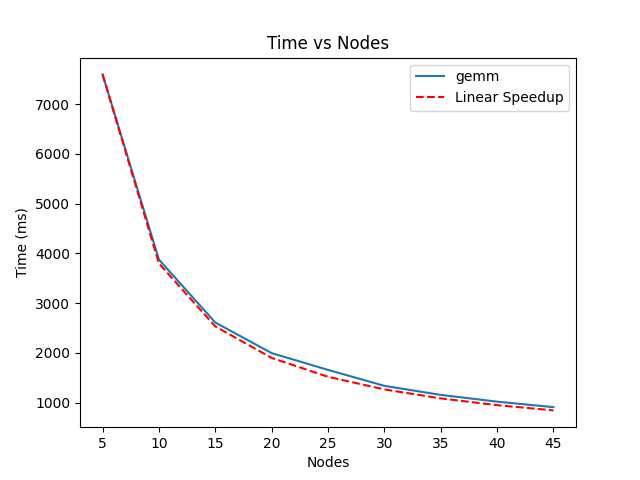
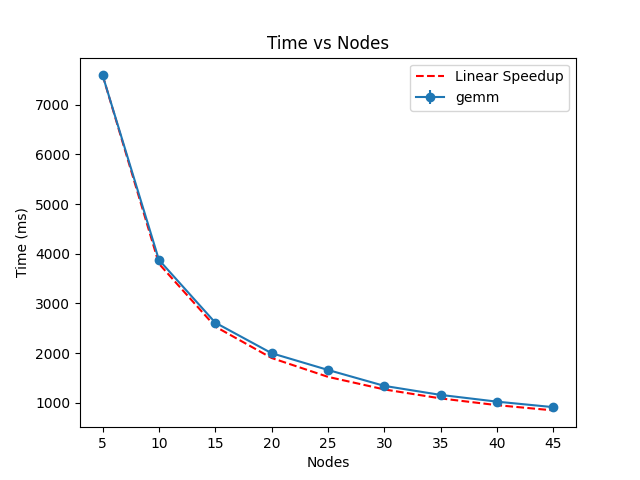
added errorbars to timing plot

diff --git a/scripts/sweep_benchmark.py b/scripts/sweep_benchmark.py
@@ -9,7 +9,7 @@ import os
 import matplotlib.pyplot as plt
 
 CMD       = "./dphpc"
-RUNS_DIR  = "runs"
+RUNS_DIR  = "runs"  # for plotting: "measurements/viscoplastic2/euler-5-40"
 N_WARMUP  = 5
 N_RUNS    = 10
 
@@ -94,7 +94,7 @@ def graph_multiple_runs(folders: List[str]):
         aggregated_df = aggregate_horizontally(dataframes)
         aggregated_df['nodes'] = len(dataframes)
         timings = pd.concat([timings, aggregated_df], axis=0)
-        print(timings)
+    print(timings)
     return timings
 
 def plot_timings_increasingnodes(timings: pd.DataFrame):
@@ -102,13 +102,13 @@ def plot_timings_increasingnodes(timings: pd.DataFrame):
     func_name = "gemm"
     func_data = timings[timings["func"] == func_name]
     timing_data = func_data["avg_time"]/(10**6)
-    ax.plot(func_data["nodes"], timing_data, label=func_name)
+    eb = [(func_data['avg_time'] - func_data['min_time'])/(10**6), (func_data['max_time'] - func_data['avg_time'])/(10**6)]
+    ax.errorbar(func_data["nodes"], timing_data, yerr=eb, fmt='-o', label=func_name)
 
     # Calculate a linear progression based on the first timing point
     initial_time = timing_data.iloc[0]  # Timing for the first number of nodes
     linear_progression = initial_time * (1 / (func_data["nodes"] / func_data["nodes"].iloc[0]))
-
-    print(linear_progression)
+    #print(linear_progression)
 
     # Plot the linear progression line
     ax.plot(func_data["nodes"], linear_progression, linestyle='--', color='red', label="Linear Speedup")
@@ -130,7 +130,6 @@ def get_subfolders(folder_path):
                 subfolders.append(item_path)
     except Exception as e:
         print(f"An error occurred: {e}")
-    
     return subfolders
 
 if __name__ == "__main__":
